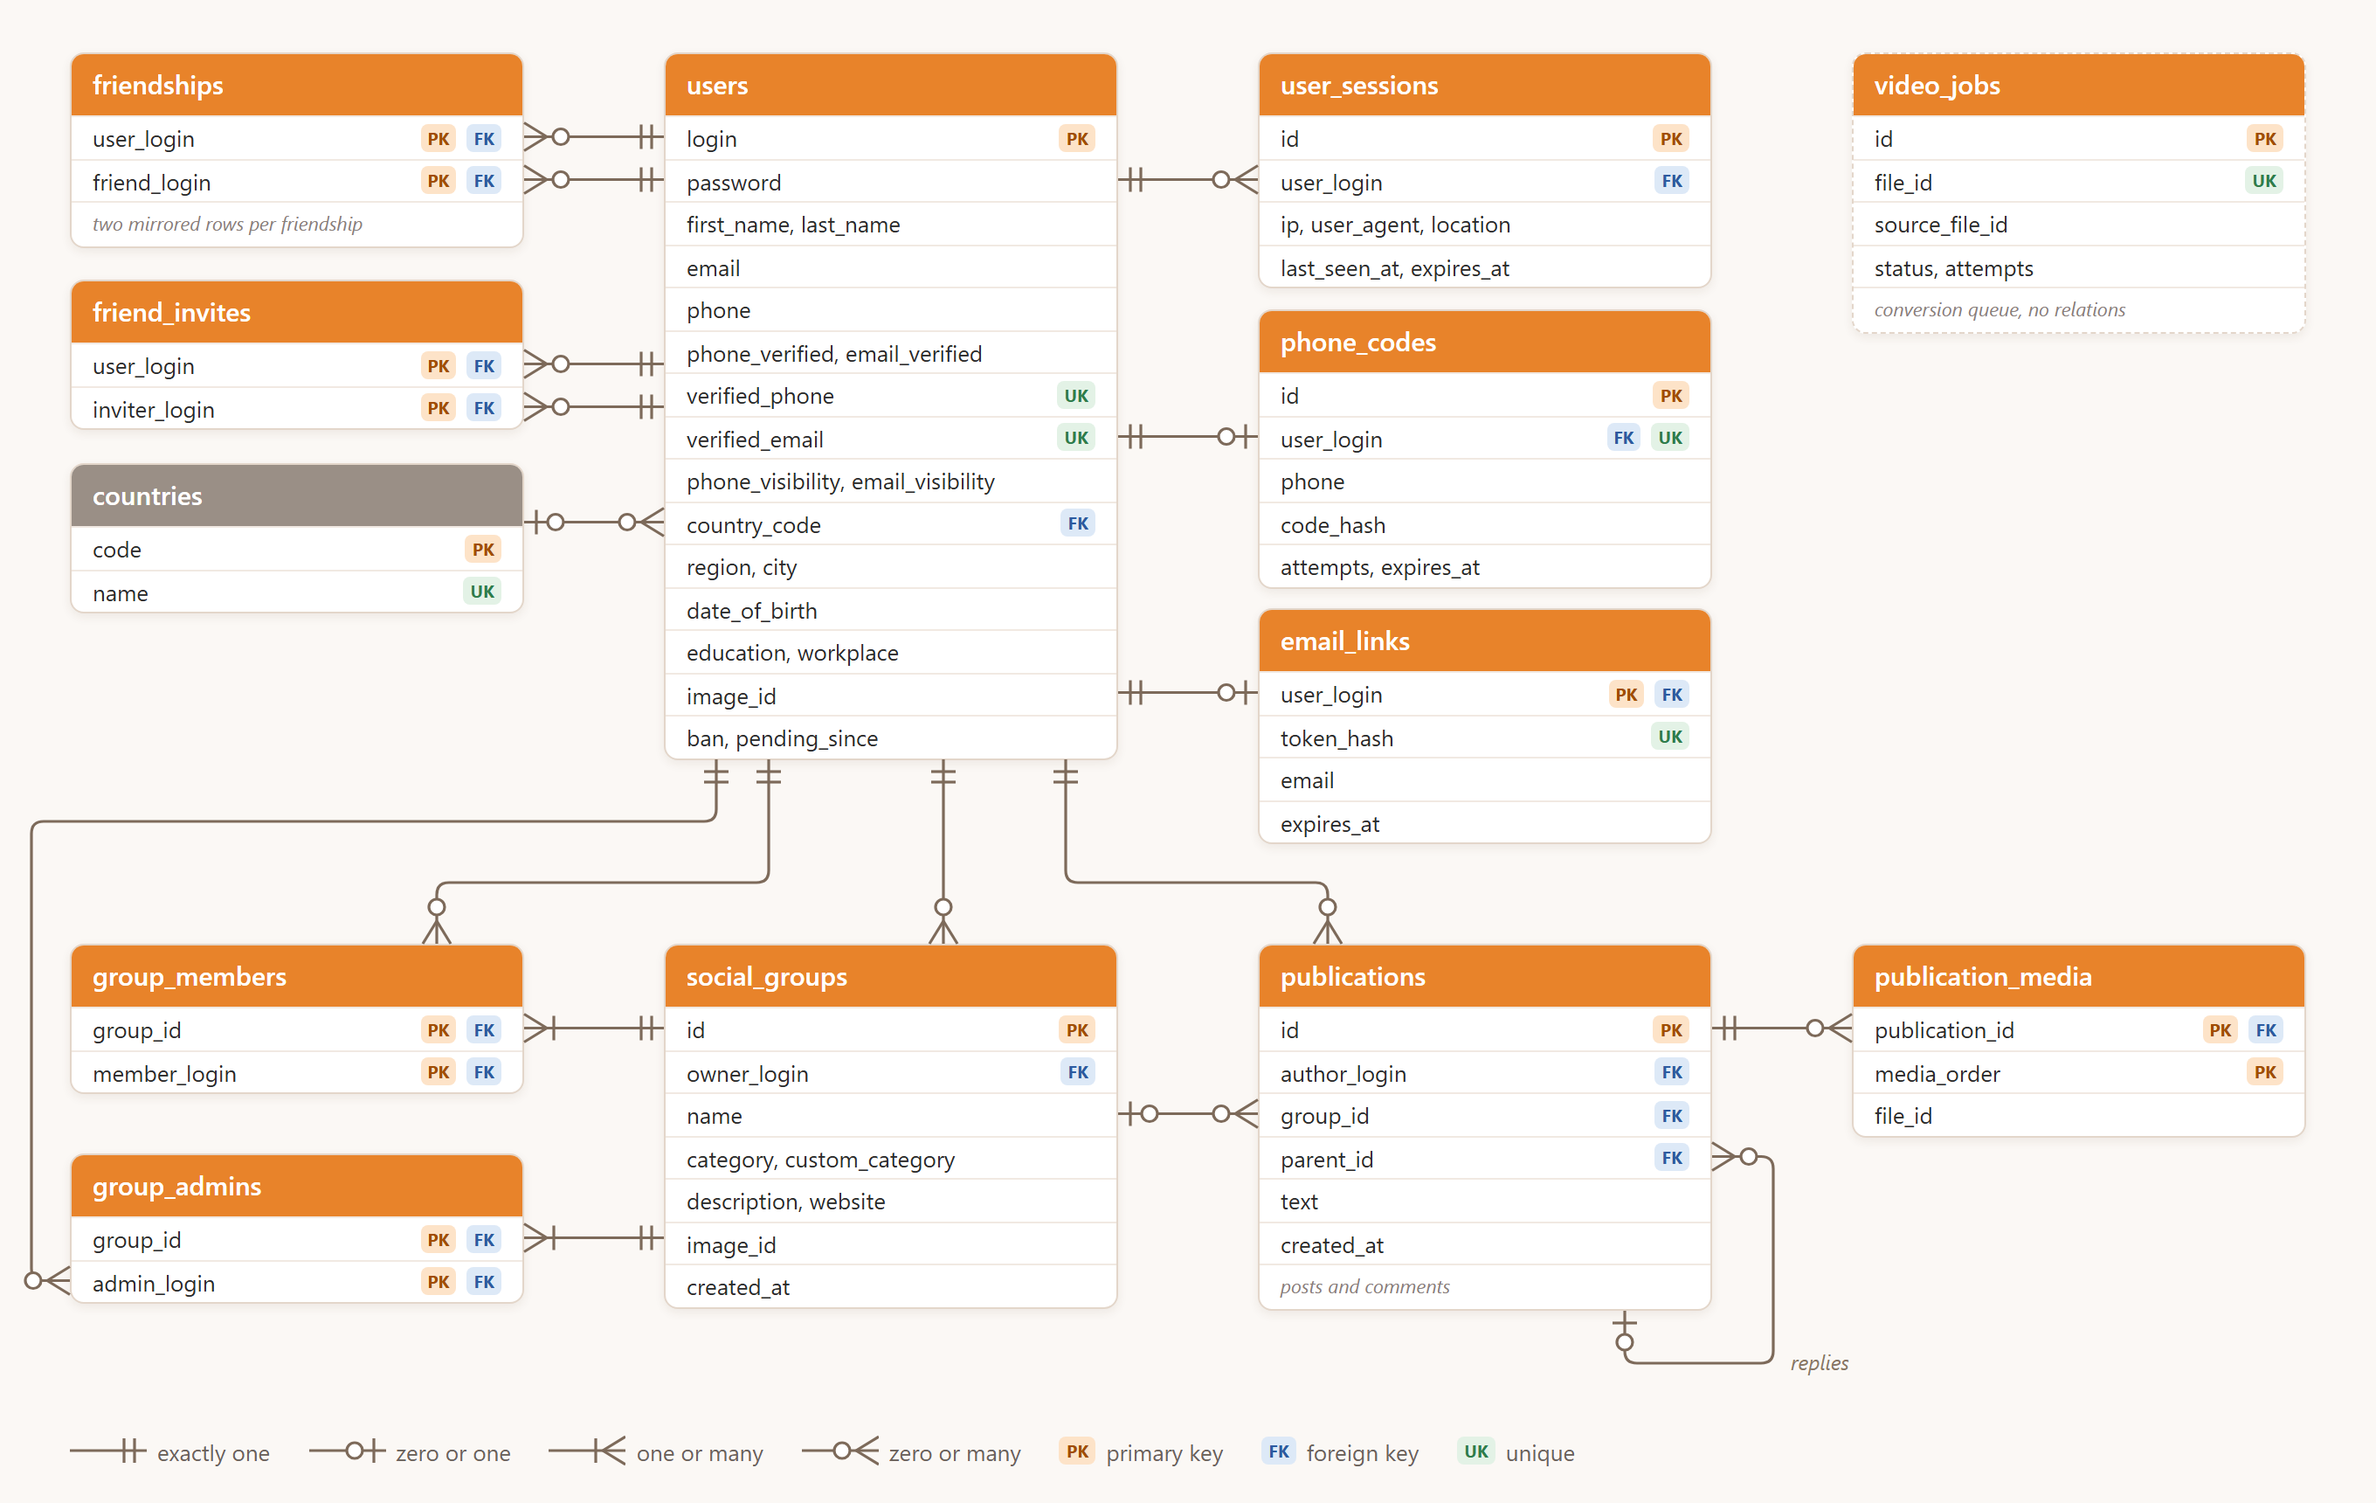
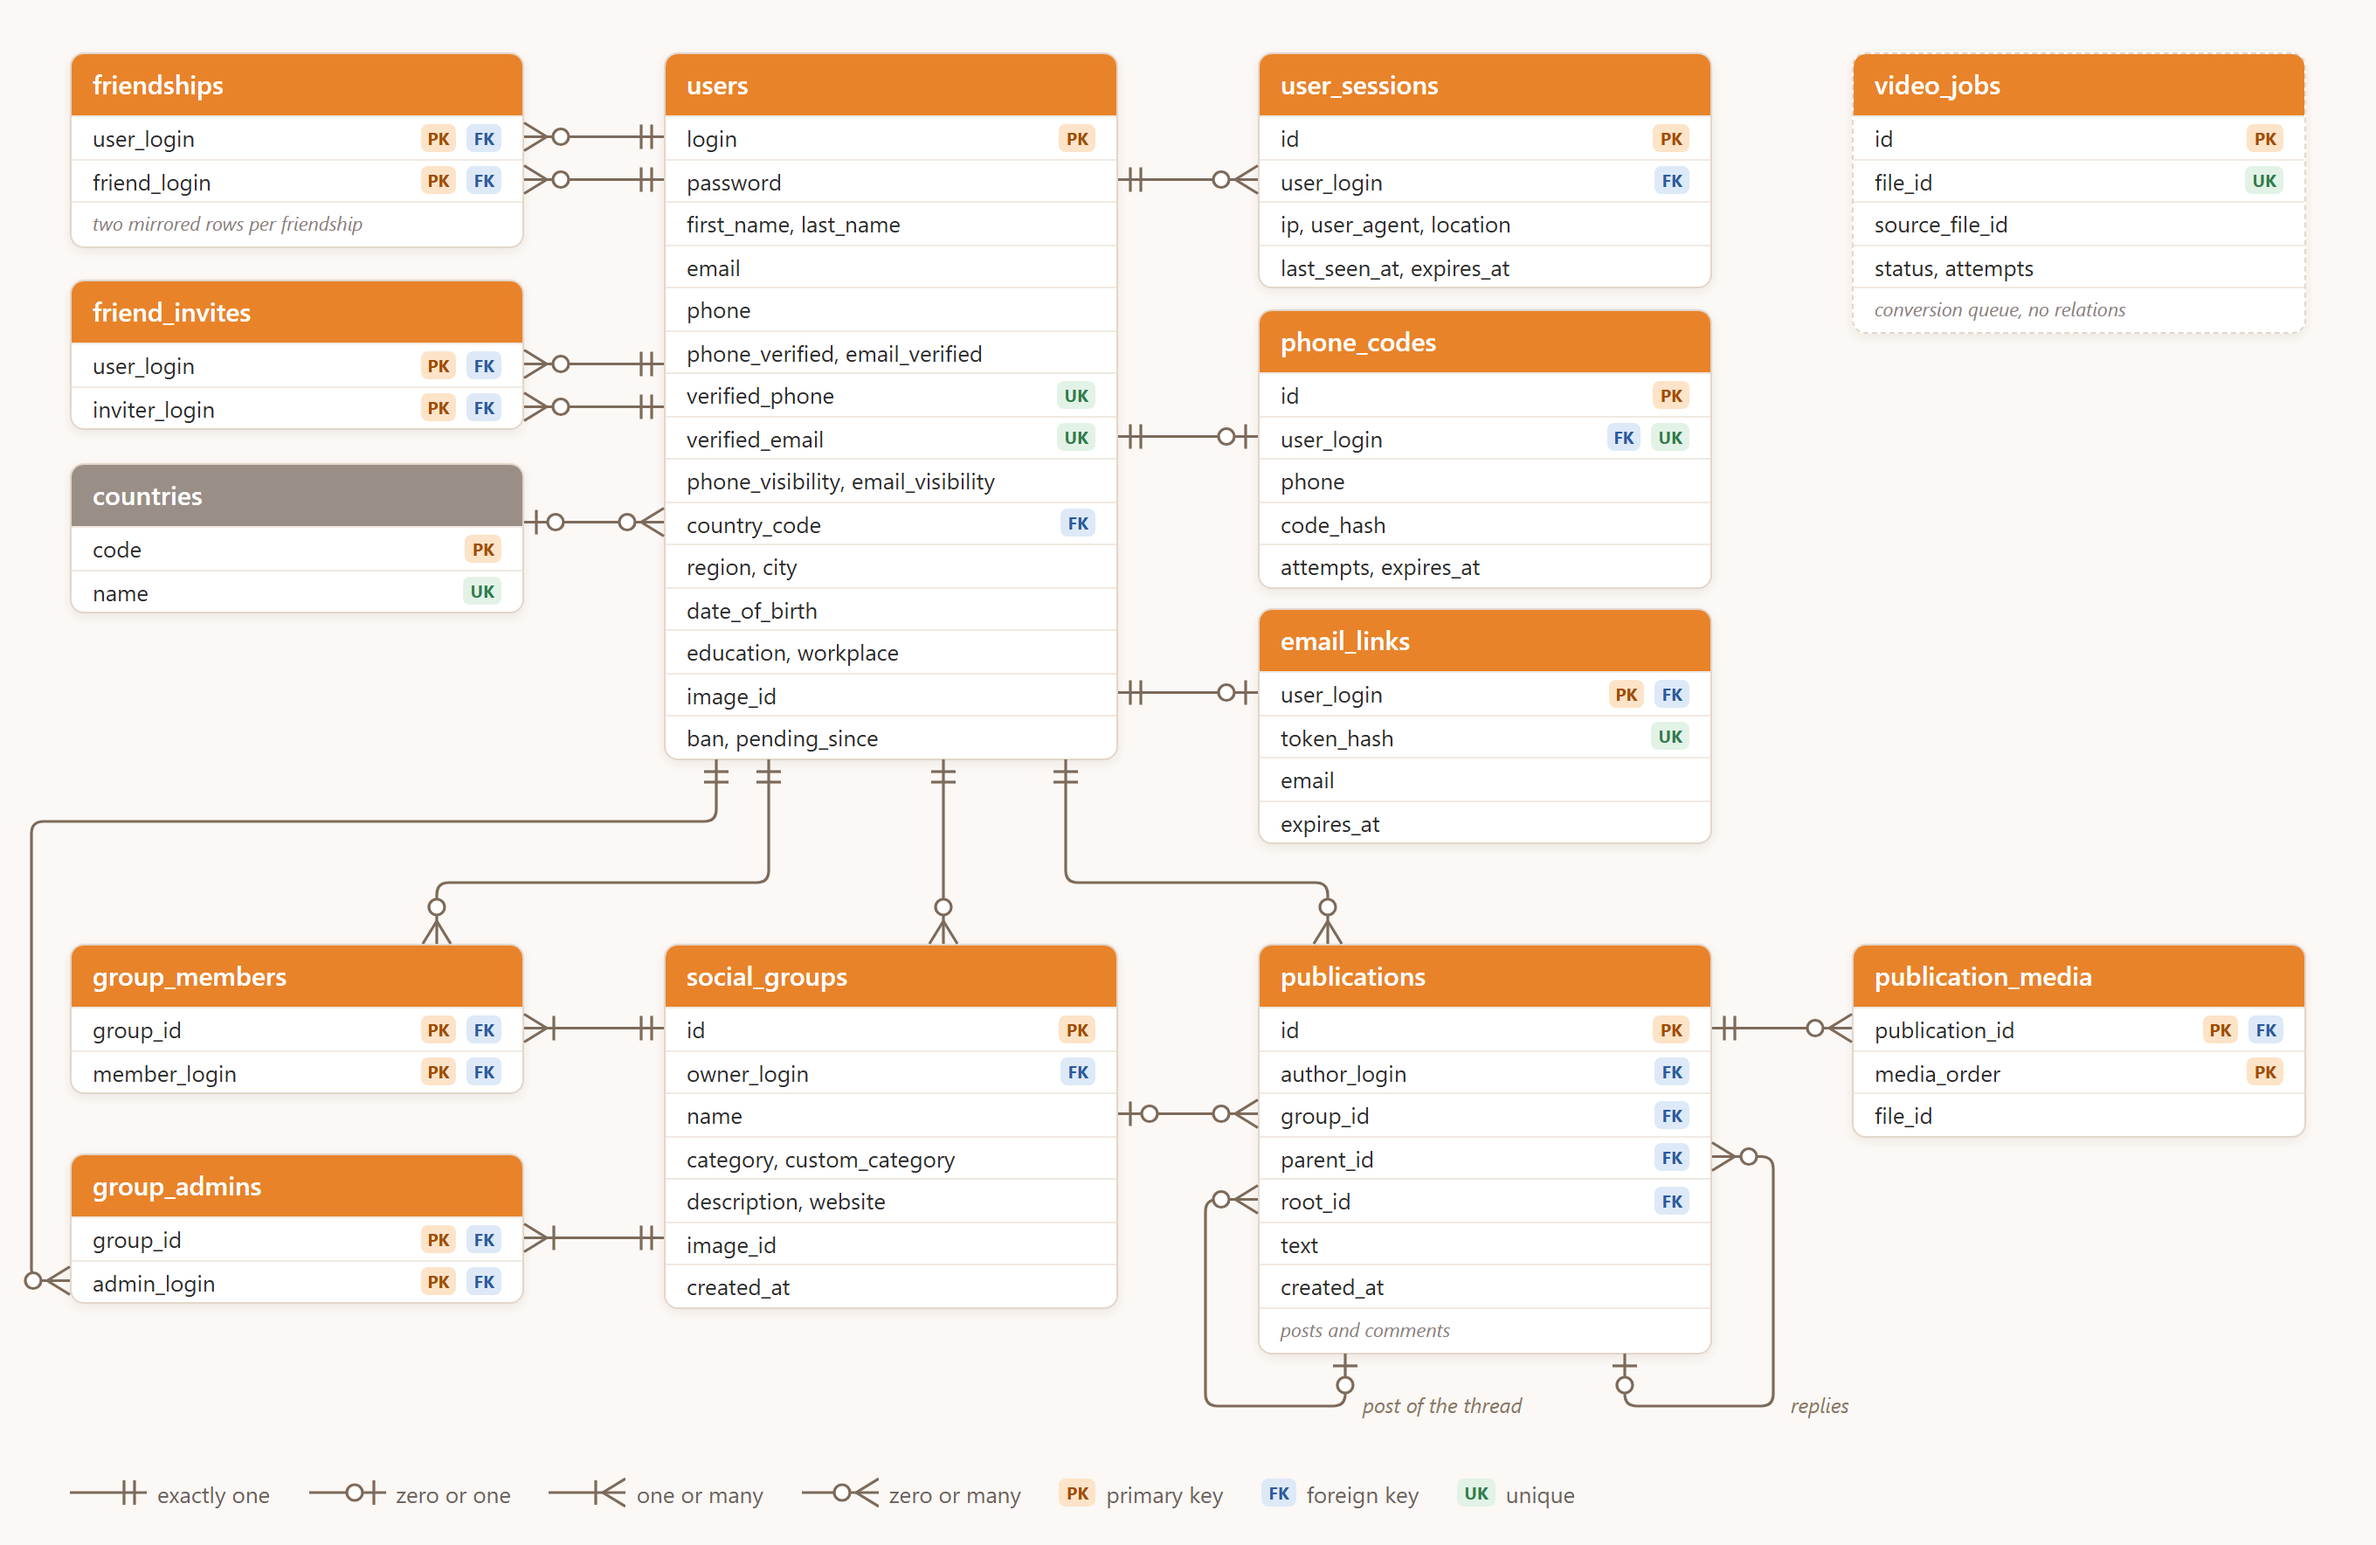
Update README

diff --git a/README.md b/README.md
@@ -1,8 +1,9 @@
 # SocialPath
 
-A small social network built with Spring Boot and MySQL. Users create profiles, add friends, join groups, publish posts with photos
-or video and discuss them in threaded comments. Accounts are confirmed by
-phone and email, and every signed-in device can be seen and signed out.
+A small social network built with Spring Boot and MySQL. Users create
+profiles, add friends, join groups, publish posts with photos or video and
+discuss them in threaded comments. Accounts are confirmed by phone and
+email, and every signed-in device can be seen and signed out.
 
 | Own page | Comment thread |
 |---|---|
@@ -39,9 +40,9 @@ GitHub Actions · Docker
   a description and a website link.
 - **Feed** — posts with up to five photos or one video, on a user page or
   in a group, with comments nested to any depth. The feed loads 20 posts
-  at a time with infinite scroll, each with its 10 newest replies; more
-  replies and replies to replies open with a button, one portion and one
-  level at a time. New posts from others show up without a page reload.
+  at a time as you scroll, each with its 10 newest replies; older replies
+  and replies to replies open with a button. When someone else publishes
+  a post, the page offers to show it without a reload.
 - **Media** — avatars in any common format, HEIC and AVIF included, are
   cropped to a square and stored in two sizes. Videos in formats browsers
   can't play (MOV, AVI, MKV, …) are converted to MP4 by ffmpeg in a
@@ -84,13 +85,12 @@ Configuration comes from environment variables:
   small JavaScript modules load and swap in; there is no front-end
   framework. Controllers are thin and pass work to services, which own
   validation, permission checks and transactions.
-- **Feed queries** — a page of the feed takes a fixed number of queries
-  and a bounded number of rows: posts, the newest replies of each post
-  (a window function, at most N per post), reply counts, authors, and
-  media. Posts and replies are paged by id (`id < last shown`), so new
-  ones don't shift what has already been loaded. Page sizes and how many
-  reply levels come with the feed are set in `application.properties`
-  (`app.feed.*`).
+- **Feed queries** — the feed is loaded in portions: a few posts and at
+  most a few replies under each, so a long discussion is never pulled in
+  whole. A portion takes the same number of queries however many posts
+  and replies it shows. Paging goes by id (`id < last shown`), so new
+  posts don't shift what has already been loaded. The portion sizes are
+  set in `application.properties` (`app.feed.*`).
 - **Media** — files live on disk under generated names. The type is
   detected from the file's first bytes, not from its name, and file paths
   are checked so that a crafted id can't leave the media folder.
@@ -108,16 +108,17 @@ Hibernate never changes it (`ddl-auto=none`).
 - **`social_groups`**, **`group_members`**, **`group_admins`** — groups
   and their roles; the composite primary keys make joining and leaving
   a single `INSERT` or `DELETE`.
-- **`publications`** — posts and comments in one table. A comment is a
-  publication with a `parent_id`, so threads can be nested to any depth,
-  and a `root_id` pointing at the post of its thread, so where a comment
-  lives (a user page or a group) is one lookup away at any depth;
-  attached files are ordered rows in `publication_media`. A post or comment
-  is deleted with its whole reply tree by the stored procedure
-  `delete_thread`: it collects the tree with a recursive query and deletes
-  the rows newest first, so `ON DELETE CASCADE` never nests past InnoDB's
-  limit of 15 levels. It returns the media file ids, and the files on disk
-  are removed after the transaction commits.
+- **`publications`** — posts and comments in one table. A comment has
+  a `parent_id` (what it answers), so threads can be nested to any depth,
+  and a `root_id` (the post of its thread), which tells at once whether
+  the thread is on a user page or in a group. Attached files are ordered
+  rows in `publication_media`.
+- **Deleting a thread** — a post or comment goes together with all its
+  replies through the stored procedure `delete_thread`. MySQL's
+  `ON DELETE CASCADE` stops at 15 nested levels, so the procedure deletes
+  the replies itself, newest first. It returns the ids of the attached
+  files, and the application removes them from disk after the
+  transaction commits.
 - **Confirmed phone and email** — a number or address may be typed by
   several accounts but confirmed by only one: a generated column holds it
   while it is confirmed (`NULL` otherwise) and has a unique key.
@@ -151,9 +152,9 @@ Hibernate never changes it (`ddl-auto=none`).
 - **Unit tests** (JUnit 5 + Mockito) — authentication and sessions,
   permission rules for groups and comments, feed assembly, media
   processing, validation.
-- **Integration tests** (Testcontainers + MySQL) — repository queries and
-  Flyway migrations, including one test that checks how a migration fills
-  in data on an existing database.
+- **Integration tests** (Testcontainers + MySQL) — repository queries,
+  the thread-deleting procedure and Flyway migrations, including tests
+  that check how a migration fills in data on an existing database.
 - **Browser tests** (Playwright, `e2e/`) — sign-up with phone and email
   confirmation, profile, feed, comments, groups and roles, friends,
   search, sessions and uploads.
